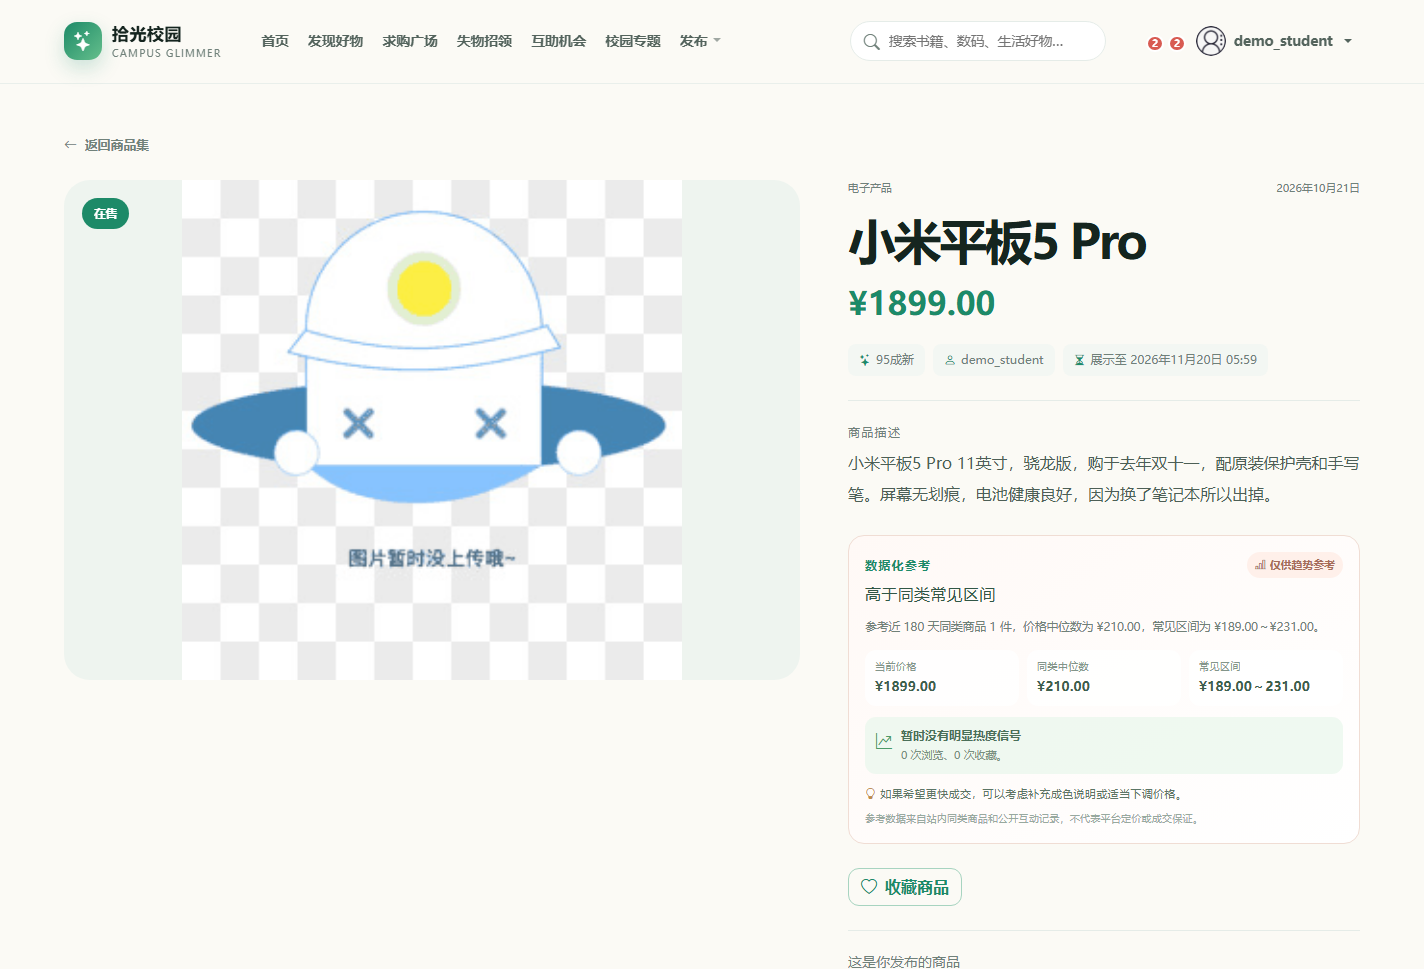
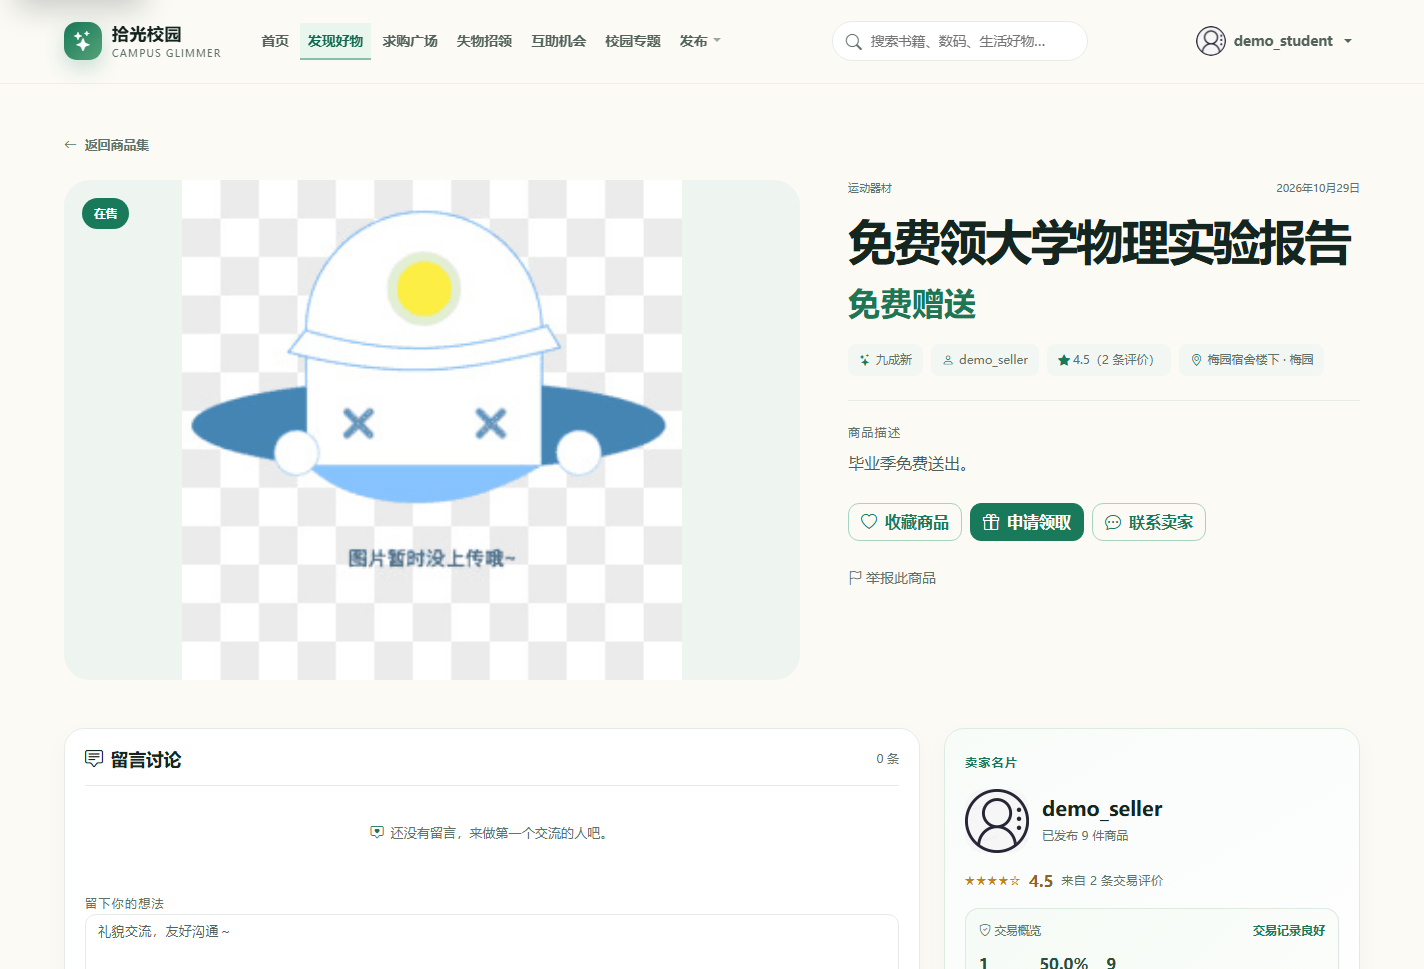
docs: 重拍十张界面预览截图，替换设计已过期的运营看板与空态演示数据
用独立演示库重新截了 16 张，逐张比对后只替换 10 张，剩下 6 张保留原图：
inbox / profile / notifications / my-items / edit-profile / moderation-queue
的新截图在现有演示数据下退化成空态（0 条会话、0 条未读、表格无行、0 条待复核），
空态截图对读者的信息量低于原图，因此不覆盖。

替换的 10 张：
- operations：旧版是扁平统计卡、指标全 0、用户 demo_operator；新版能看到真实的
  运营提醒队列、供给/需求/搜索/预约四组指标和商品举报入口。
- home / discover / item-detail / demands / my-orders / order-detail /
  public-profile / contributions / login：演示数据同步到当前库，身份统一为
  demo_student（管理页 demo_admin），并跟随最新的导航与搜索条改版。

顺带把根 README 首页预览的副标题里「未读提醒」去掉——新首页截图登录态没有
未读角标，写了会与实际画面不符。全部图片保持 1424×969，gallery 数量仍为
十六张，docs/screenshots/README.md 的说明文字继续成立。

diff --git a/README.md b/README.md
@@ -29,7 +29,7 @@
   <a href="docs/screenshots/home.png"><img src="docs/screenshots/home.png" alt="拾光校园首页，展示品牌主视觉、导航与在售商品概览" width="100%" /></a>
 </p>
 
-<p align="center"><strong>首页 · 从校园场景进入交易与互助</strong><br /><sub>品牌主视觉、全局入口、未读提醒和正在流转的好物 · 本地演示数据</sub></p>
+<p align="center"><strong>首页 · 从校园场景进入交易与互助</strong><br /><sub>品牌主视觉、全局入口与正在流转的好物 · 本地演示数据</sub></p>
 
 <table>
 <tr>
